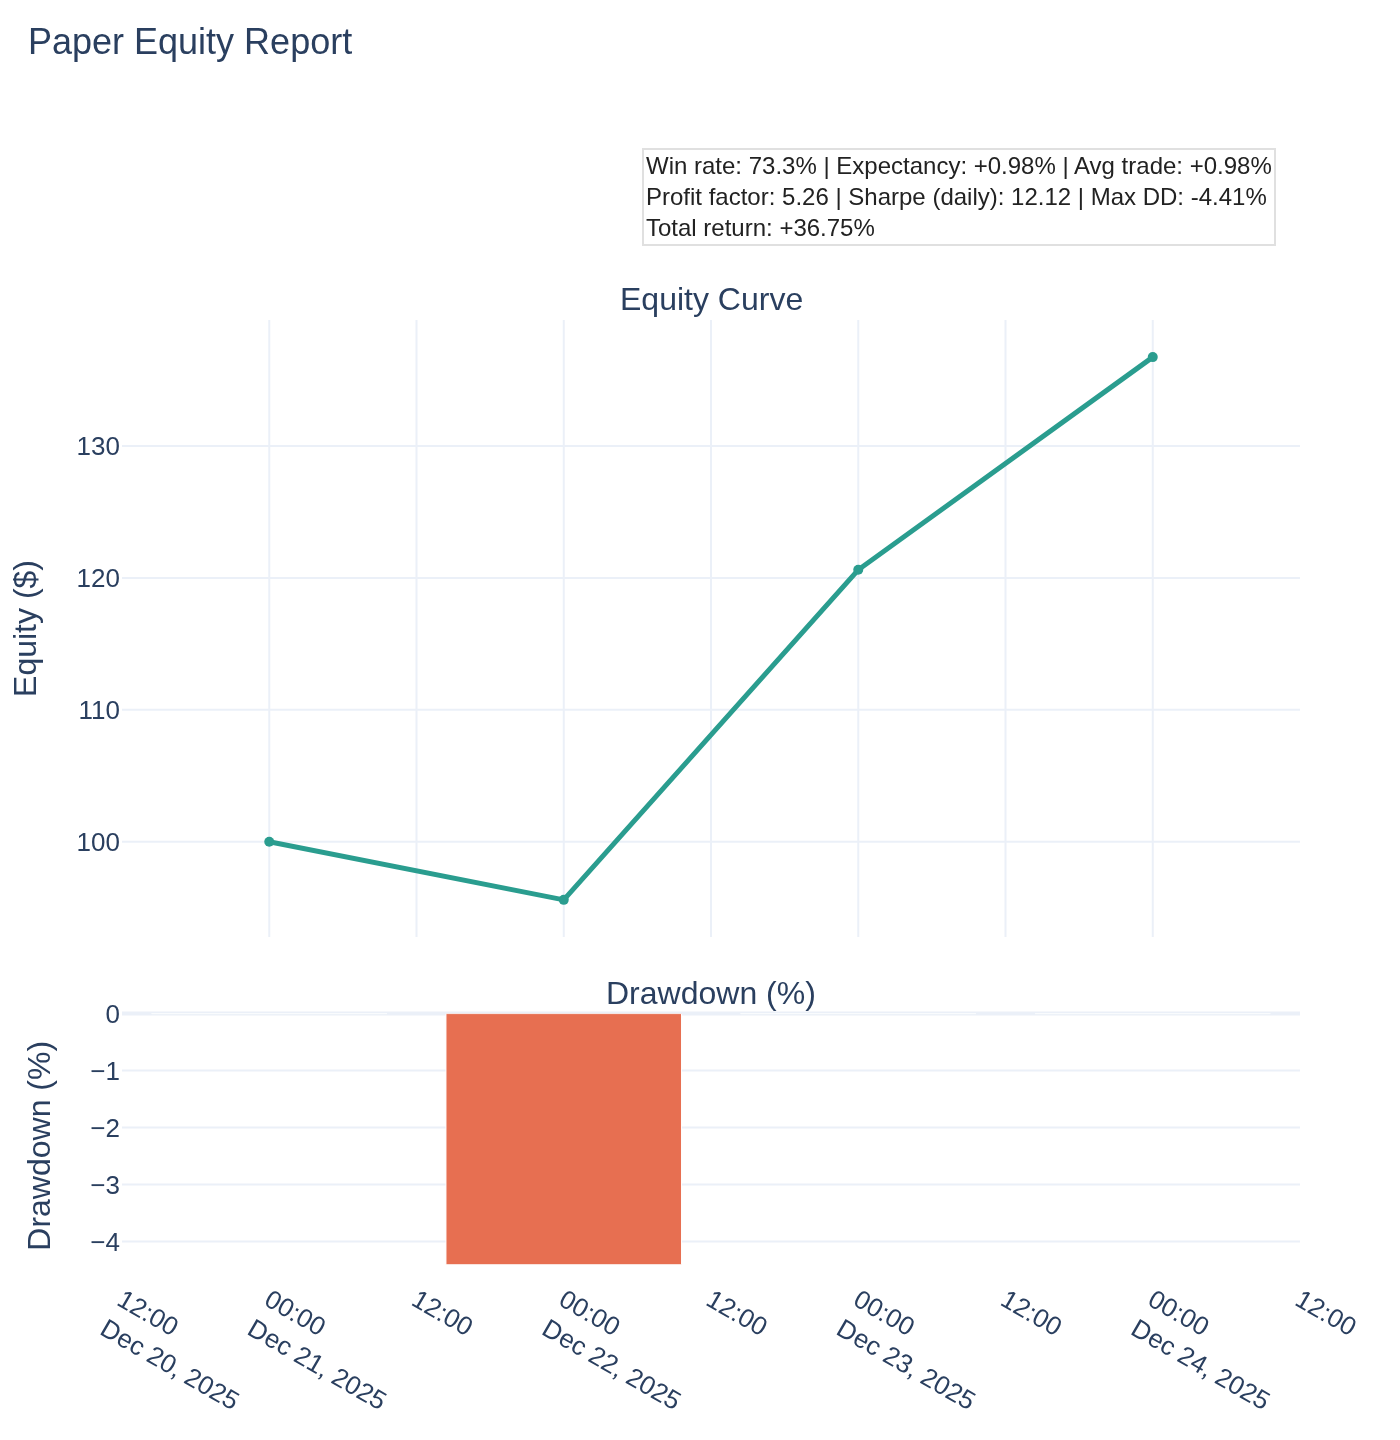
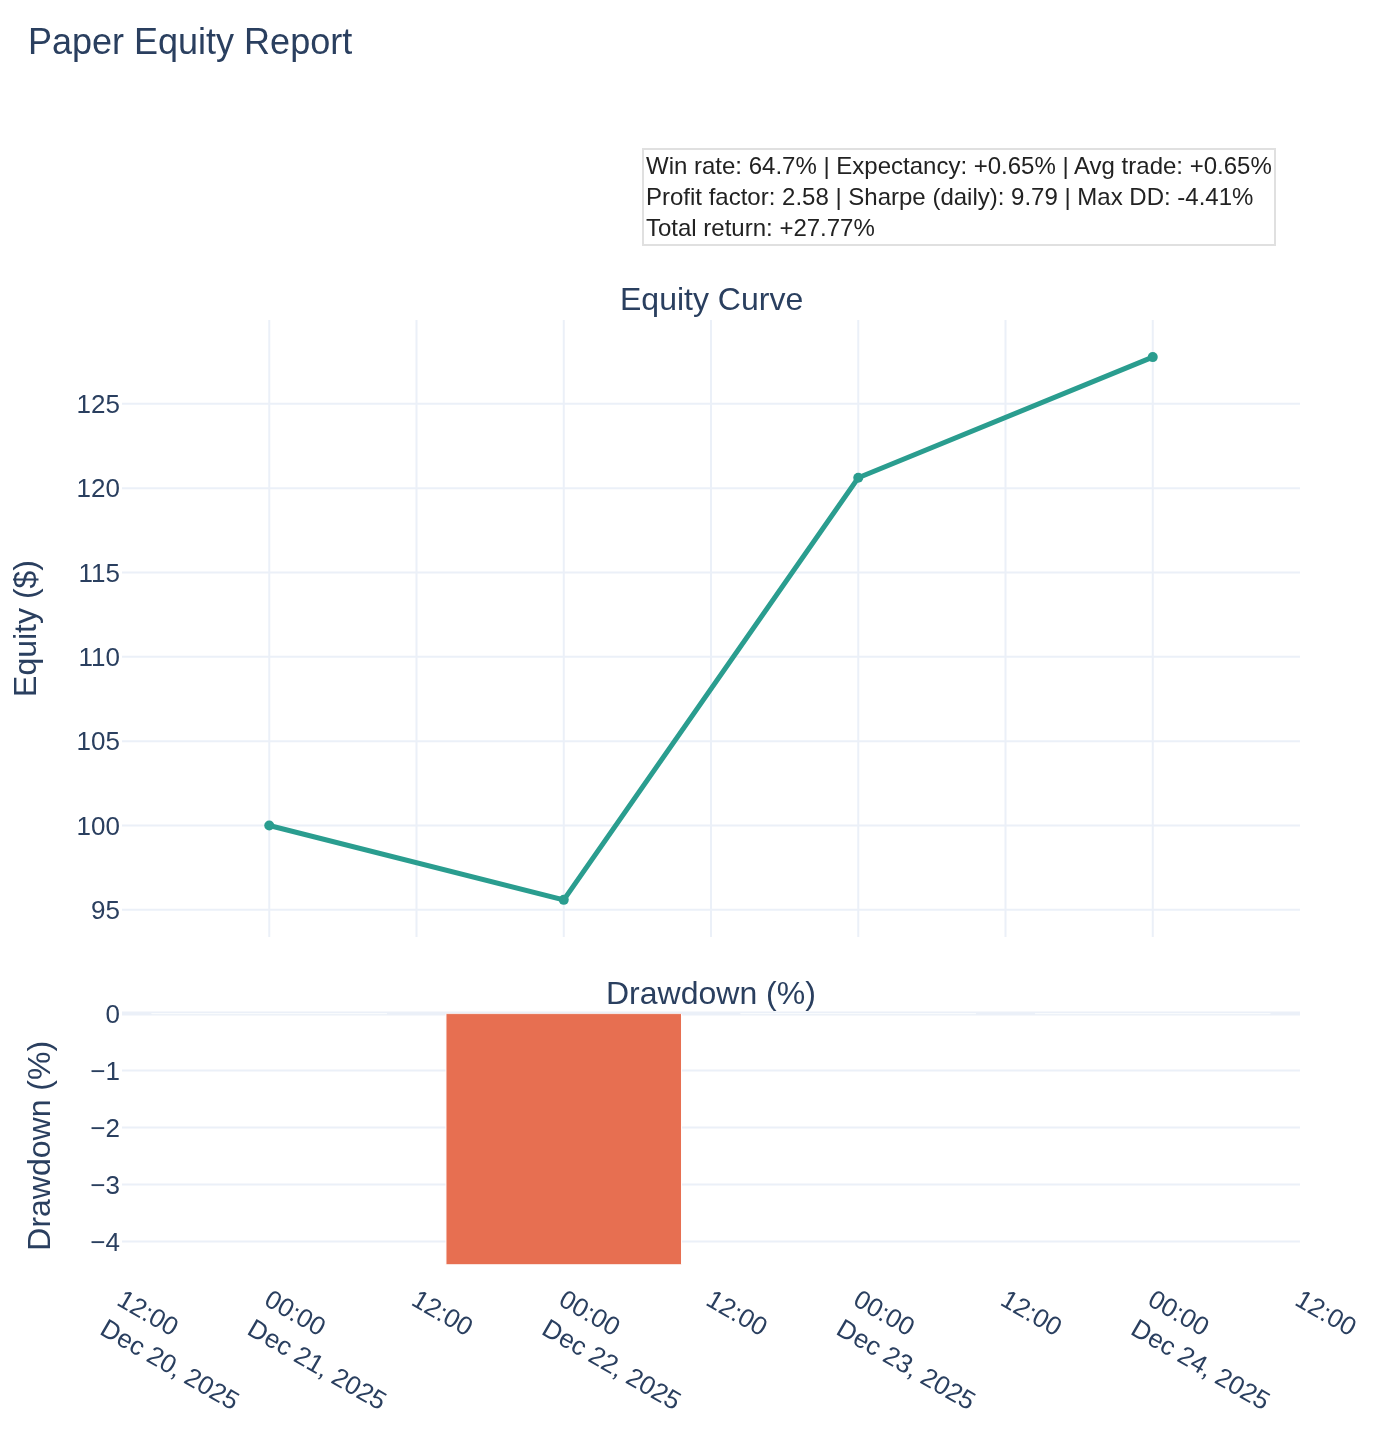
Update paper equity outputs and baseline csv

diff --git a/reports/paper_equity_report.html b/reports/paper_equity_report.html
@@ -2,6 +2,6 @@
 <head><meta charset="utf-8" /></head>
 <body>
     <div>                        <script type="text/javascript">window.PlotlyConfig = {MathJaxConfig: 'local'};</script>
-        <script charset="utf-8" src="https://cdn.plot.ly/plotly-3.3.0.min.js" integrity="sha256-bO3dS6yCpk9aK4gUpNELtCiDeSYvGYnK7jFI58NQnHI=" crossorigin="anonymous"></script>                <div id="f81df6c2-8111-4002-a10a-0886afe8ddb7" class="plotly-graph-div" style="height:720px; width:100%;"></div>            <script type="text/javascript">                window.PLOTLYENV=window.PLOTLYENV || {};                                if (document.getElementById("f81df6c2-8111-4002-a10a-0886afe8ddb7")) {                    Plotly.newPlot(                        "f81df6c2-8111-4002-a10a-0886afe8ddb7",                        [{"line":{"color":"#2a9d8f","width":2.5},"marker":{"color":"#2a9d8f","size":5},"mode":"lines+markers","name":"Equity","x":["2025-12-21","2025-12-22","2025-12-23","2025-12-24"],"y":{"dtype":"f8","bdata":"AAAAAAAAWUD2KFyPwuVXQEjhehSuJ15AAAAAAAAYYUA="},"type":"scatter","xaxis":"x","yaxis":"y"},{"marker":{"color":"#e76f51"},"name":"Drawdown","x":["2025-12-21","2025-12-22","2025-12-23","2025-12-24"],"y":{"dtype":"f8","bdata":"AAAAAAAAAACgcD0K16MRwAAAAAAAAAAAAAAAAAAAAAA="},"type":"bar","xaxis":"x2","yaxis":"y2"}],                        {"template":{"data":{"barpolar":[{"marker":{"line":{"color":"white","width":0.5},"pattern":{"fillmode":"overlay","size":10,"solidity":0.2}},"type":"barpolar"}],"bar":[{"error_x":{"color":"#2a3f5f"},"error_y":{"color":"#2a3f5f"},"marker":{"line":{"color":"white","width":0.5},"pattern":{"fillmode":"overlay","size":10,"solidity":0.2}},"type":"bar"}],"carpet":[{"aaxis":{"endlinecolor":"#2a3f5f","gridcolor":"#C8D4E3","linecolor":"#C8D4E3","minorgridcolor":"#C8D4E3","startlinecolor":"#2a3f5f"},"baxis":{"endlinecolor":"#2a3f5f","gridcolor":"#C8D4E3","linecolor":"#C8D4E3","minorgridcolor":"#C8D4E3","startlinecolor":"#2a3f5f"},"type":"carpet"}],"choropleth":[{"colorbar":{"outlinewidth":0,"ticks":""},"type":"choropleth"}],"contourcarpet":[{"colorbar":{"outlinewidth":0,"ticks":""},"type":"contourcarpet"}],"contour":[{"colorbar":{"outlinewidth":0,"ticks":""},"colorscale":[[0.0,"#0d0887"],[0.1111111111111111,"#46039f"],[0.2222222222222222,"#7201a8"],[0.3333333333333333,"#9c179e"],[0.4444444444444444,"#bd3786"],[0.5555555555555556,"#d8576b"],[0.6666666666666666,"#ed7953"],[0.7777777777777778,"#fb9f3a"],[0.8888888888888888,"#fdca26"],[1.0,"#f0f921"]],"type":"contour"}],"heatmap":[{"colorbar":{"outlinewidth":0,"ticks":""},"colorscale":[[0.0,"#0d0887"],[0.1111111111111111,"#46039f"],[0.2222222222222222,"#7201a8"],[0.3333333333333333,"#9c179e"],[0.4444444444444444,"#bd3786"],[0.5555555555555556,"#d8576b"],[0.6666666666666666,"#ed7953"],[0.7777777777777778,"#fb9f3a"],[0.8888888888888888,"#fdca26"],[1.0,"#f0f921"]],"type":"heatmap"}],"histogram2dcontour":[{"colorbar":{"outlinewidth":0,"ticks":""},"colorscale":[[0.0,"#0d0887"],[0.1111111111111111,"#46039f"],[0.2222222222222222,"#7201a8"],[0.3333333333333333,"#9c179e"],[0.4444444444444444,"#bd3786"],[0.5555555555555556,"#d8576b"],[0.6666666666666666,"#ed7953"],[0.7777777777777778,"#fb9f3a"],[0.8888888888888888,"#fdca26"],[1.0,"#f0f921"]],"type":"histogram2dcontour"}],"histogram2d":[{"colorbar":{"outlinewidth":0,"ticks":""},"colorscale":[[0.0,"#0d0887"],[0.1111111111111111,"#46039f"],[0.2222222222222222,"#7201a8"],[0.3333333333333333,"#9c179e"],[0.4444444444444444,"#bd3786"],[0.5555555555555556,"#d8576b"],[0.6666666666666666,"#ed7953"],[0.7777777777777778,"#fb9f3a"],[0.8888888888888888,"#fdca26"],[1.0,"#f0f921"]],"type":"histogram2d"}],"histogram":[{"marker":{"pattern":{"fillmode":"overlay","size":10,"solidity":0.2}},"type":"histogram"}],"mesh3d":[{"colorbar":{"outlinewidth":0,"ticks":""},"type":"mesh3d"}],"parcoords":[{"line":{"colorbar":{"outlinewidth":0,"ticks":""}},"type":"parcoords"}],"pie":[{"automargin":true,"type":"pie"}],"scatter3d":[{"line":{"colorbar":{"outlinewidth":0,"ticks":""}},"marker":{"colorbar":{"outlinewidth":0,"ticks":""}},"type":"scatter3d"}],"scattercarpet":[{"marker":{"colorbar":{"outlinewidth":0,"ticks":""}},"type":"scattercarpet"}],"scattergeo":[{"marker":{"colorbar":{"outlinewidth":0,"ticks":""}},"type":"scattergeo"}],"scattergl":[{"marker":{"colorbar":{"outlinewidth":0,"ticks":""}},"type":"scattergl"}],"scattermapbox":[{"marker":{"colorbar":{"outlinewidth":0,"ticks":""}},"type":"scattermapbox"}],"scattermap":[{"marker":{"colorbar":{"outlinewidth":0,"ticks":""}},"type":"scattermap"}],"scatterpolargl":[{"marker":{"colorbar":{"outlinewidth":0,"ticks":""}},"type":"scatterpolargl"}],"scatterpolar":[{"marker":{"colorbar":{"outlinewidth":0,"ticks":""}},"type":"scatterpolar"}],"scatter":[{"fillpattern":{"fillmode":"overlay","size":10,"solidity":0.2},"type":"scatter"}],"scatterternary":[{"marker":{"colorbar":{"outlinewidth":0,"ticks":""}},"type":"scatterternary"}],"surface":[{"colorbar":{"outlinewidth":0,"ticks":""},"colorscale":[[0.0,"#0d0887"],[0.1111111111111111,"#46039f"],[0.2222222222222222,"#7201a8"],[0.3333333333333333,"#9c179e"],[0.4444444444444444,"#bd3786"],[0.5555555555555556,"#d8576b"],[0.6666666666666666,"#ed7953"],[0.7777777777777778,"#fb9f3a"],[0.8888888888888888,"#fdca26"],[1.0,"#f0f921"]],"type":"surface"}],"table":[{"cells":{"fill":{"color":"#EBF0F8"},"line":{"color":"white"}},"header":{"fill":{"color":"#C8D4E3"},"line":{"color":"white"}},"type":"table"}]},"layout":{"annotationdefaults":{"arrowcolor":"#2a3f5f","arrowhead":0,"arrowwidth":1},"autotypenumbers":"strict","coloraxis":{"colorbar":{"outlinewidth":0,"ticks":""}},"colorscale":{"diverging":[[0,"#8e0152"],[0.1,"#c51b7d"],[0.2,"#de77ae"],[0.3,"#f1b6da"],[0.4,"#fde0ef"],[0.5,"#f7f7f7"],[0.6,"#e6f5d0"],[0.7,"#b8e186"],[0.8,"#7fbc41"],[0.9,"#4d9221"],[1,"#276419"]],"sequential":[[0.0,"#0d0887"],[0.1111111111111111,"#46039f"],[0.2222222222222222,"#7201a8"],[0.3333333333333333,"#9c179e"],[0.4444444444444444,"#bd3786"],[0.5555555555555556,"#d8576b"],[0.6666666666666666,"#ed7953"],[0.7777777777777778,"#fb9f3a"],[0.8888888888888888,"#fdca26"],[1.0,"#f0f921"]],"sequentialminus":[[0.0,"#0d0887"],[0.1111111111111111,"#46039f"],[0.2222222222222222,"#7201a8"],[0.3333333333333333,"#9c179e"],[0.4444444444444444,"#bd3786"],[0.5555555555555556,"#d8576b"],[0.6666666666666666,"#ed7953"],[0.7777777777777778,"#fb9f3a"],[0.8888888888888888,"#fdca26"],[1.0,"#f0f921"]]},"colorway":["#636efa","#EF553B","#00cc96","#ab63fa","#FFA15A","#19d3f3","#FF6692","#B6E880","#FF97FF","#FECB52"],"font":{"color":"#2a3f5f"},"geo":{"bgcolor":"white","lakecolor":"white","landcolor":"white","showlakes":true,"showland":true,"subunitcolor":"#C8D4E3"},"hoverlabel":{"align":"left"},"hovermode":"closest","mapbox":{"style":"light"},"paper_bgcolor":"white","plot_bgcolor":"white","polar":{"angularaxis":{"gridcolor":"#EBF0F8","linecolor":"#EBF0F8","ticks":""},"bgcolor":"white","radialaxis":{"gridcolor":"#EBF0F8","linecolor":"#EBF0F8","ticks":""}},"scene":{"xaxis":{"backgroundcolor":"white","gridcolor":"#DFE8F3","gridwidth":2,"linecolor":"#EBF0F8","showbackground":true,"ticks":"","zerolinecolor":"#EBF0F8"},"yaxis":{"backgroundcolor":"white","gridcolor":"#DFE8F3","gridwidth":2,"linecolor":"#EBF0F8","showbackground":true,"ticks":"","zerolinecolor":"#EBF0F8"},"zaxis":{"backgroundcolor":"white","gridcolor":"#DFE8F3","gridwidth":2,"linecolor":"#EBF0F8","showbackground":true,"ticks":"","zerolinecolor":"#EBF0F8"}},"shapedefaults":{"line":{"color":"#2a3f5f"}},"ternary":{"aaxis":{"gridcolor":"#DFE8F3","linecolor":"#A2B1C6","ticks":""},"baxis":{"gridcolor":"#DFE8F3","linecolor":"#A2B1C6","ticks":""},"bgcolor":"white","caxis":{"gridcolor":"#DFE8F3","linecolor":"#A2B1C6","ticks":""}},"title":{"x":0.05},"xaxis":{"automargin":true,"gridcolor":"#EBF0F8","linecolor":"#EBF0F8","ticks":"","title":{"standoff":15},"zerolinecolor":"#EBF0F8","zerolinewidth":2},"yaxis":{"automargin":true,"gridcolor":"#EBF0F8","linecolor":"#EBF0F8","ticks":"","title":{"standoff":15},"zerolinecolor":"#EBF0F8","zerolinewidth":2}}},"xaxis":{"anchor":"y","domain":[0.0,1.0],"matches":"x2","showticklabels":false},"yaxis":{"anchor":"x","domain":[0.35600000000000004,1.0],"title":{"text":"Equity ($)"}},"xaxis2":{"anchor":"y2","domain":[0.0,1.0]},"yaxis2":{"anchor":"x2","domain":[0.0,0.276],"title":{"text":"Drawdown (%)"}},"annotations":[{"font":{"size":16},"showarrow":false,"text":"Equity Curve","x":0.5,"xanchor":"center","xref":"paper","y":1.0,"yanchor":"bottom","yref":"paper"},{"font":{"size":16},"showarrow":false,"text":"Drawdown (%)","x":0.5,"xanchor":"center","xref":"paper","y":0.276,"yanchor":"bottom","yref":"paper"},{"align":"left","bgcolor":"rgba(255,255,255,0.9)","bordercolor":"#e0e0e0","borderwidth":1,"font":{"color":"#222","size":12},"showarrow":false,"text":"Win rate: 73.3% | Expectancy: +0.98% | Avg trade: +0.98%\u003cbr\u003eProfit factor: 5.26 | Sharpe (daily): 12.12 | Max DD: -4.41%\u003cbr\u003eTotal return: +36.75%","x":0.98,"xanchor":"right","xref":"paper","y":1.18,"yanchor":"top","yref":"paper"}],"title":{"text":"Paper Equity Report","x":0.02,"xanchor":"left","y":0.98,"yanchor":"top"},"margin":{"l":50,"r":50,"t":160,"b":60},"font":{"size":13},"height":720,"showlegend":false},                        {"responsive": true}                    )                };            </script>        </div>
+        <script charset="utf-8" src="https://cdn.plot.ly/plotly-3.3.0.min.js" integrity="sha256-bO3dS6yCpk9aK4gUpNELtCiDeSYvGYnK7jFI58NQnHI=" crossorigin="anonymous"></script>                <div id="d1387e41-820e-4580-a99b-588e577e87e7" class="plotly-graph-div" style="height:720px; width:100%;"></div>            <script type="text/javascript">                window.PLOTLYENV=window.PLOTLYENV || {};                                if (document.getElementById("d1387e41-820e-4580-a99b-588e577e87e7")) {                    Plotly.newPlot(                        "d1387e41-820e-4580-a99b-588e577e87e7",                        [{"line":{"color":"#2a9d8f","width":2.5},"marker":{"color":"#2a9d8f","size":5},"mode":"lines+markers","name":"Equity","x":["2025-12-21","2025-12-22","2025-12-23","2025-12-24"],"y":{"dtype":"f8","bdata":"AAAAAAAAWUD2KFyPwuVXQEjhehSuJ15A4noUrkfxX0A="},"type":"scatter","xaxis":"x","yaxis":"y"},{"marker":{"color":"#e76f51"},"name":"Drawdown","x":["2025-12-21","2025-12-22","2025-12-23","2025-12-24"],"y":{"dtype":"f8","bdata":"AAAAAAAAAACgcD0K16MRwAAAAAAAAAAAAAAAAAAAAAA="},"type":"bar","xaxis":"x2","yaxis":"y2"}],                        {"template":{"data":{"barpolar":[{"marker":{"line":{"color":"white","width":0.5},"pattern":{"fillmode":"overlay","size":10,"solidity":0.2}},"type":"barpolar"}],"bar":[{"error_x":{"color":"#2a3f5f"},"error_y":{"color":"#2a3f5f"},"marker":{"line":{"color":"white","width":0.5},"pattern":{"fillmode":"overlay","size":10,"solidity":0.2}},"type":"bar"}],"carpet":[{"aaxis":{"endlinecolor":"#2a3f5f","gridcolor":"#C8D4E3","linecolor":"#C8D4E3","minorgridcolor":"#C8D4E3","startlinecolor":"#2a3f5f"},"baxis":{"endlinecolor":"#2a3f5f","gridcolor":"#C8D4E3","linecolor":"#C8D4E3","minorgridcolor":"#C8D4E3","startlinecolor":"#2a3f5f"},"type":"carpet"}],"choropleth":[{"colorbar":{"outlinewidth":0,"ticks":""},"type":"choropleth"}],"contourcarpet":[{"colorbar":{"outlinewidth":0,"ticks":""},"type":"contourcarpet"}],"contour":[{"colorbar":{"outlinewidth":0,"ticks":""},"colorscale":[[0.0,"#0d0887"],[0.1111111111111111,"#46039f"],[0.2222222222222222,"#7201a8"],[0.3333333333333333,"#9c179e"],[0.4444444444444444,"#bd3786"],[0.5555555555555556,"#d8576b"],[0.6666666666666666,"#ed7953"],[0.7777777777777778,"#fb9f3a"],[0.8888888888888888,"#fdca26"],[1.0,"#f0f921"]],"type":"contour"}],"heatmap":[{"colorbar":{"outlinewidth":0,"ticks":""},"colorscale":[[0.0,"#0d0887"],[0.1111111111111111,"#46039f"],[0.2222222222222222,"#7201a8"],[0.3333333333333333,"#9c179e"],[0.4444444444444444,"#bd3786"],[0.5555555555555556,"#d8576b"],[0.6666666666666666,"#ed7953"],[0.7777777777777778,"#fb9f3a"],[0.8888888888888888,"#fdca26"],[1.0,"#f0f921"]],"type":"heatmap"}],"histogram2dcontour":[{"colorbar":{"outlinewidth":0,"ticks":""},"colorscale":[[0.0,"#0d0887"],[0.1111111111111111,"#46039f"],[0.2222222222222222,"#7201a8"],[0.3333333333333333,"#9c179e"],[0.4444444444444444,"#bd3786"],[0.5555555555555556,"#d8576b"],[0.6666666666666666,"#ed7953"],[0.7777777777777778,"#fb9f3a"],[0.8888888888888888,"#fdca26"],[1.0,"#f0f921"]],"type":"histogram2dcontour"}],"histogram2d":[{"colorbar":{"outlinewidth":0,"ticks":""},"colorscale":[[0.0,"#0d0887"],[0.1111111111111111,"#46039f"],[0.2222222222222222,"#7201a8"],[0.3333333333333333,"#9c179e"],[0.4444444444444444,"#bd3786"],[0.5555555555555556,"#d8576b"],[0.6666666666666666,"#ed7953"],[0.7777777777777778,"#fb9f3a"],[0.8888888888888888,"#fdca26"],[1.0,"#f0f921"]],"type":"histogram2d"}],"histogram":[{"marker":{"pattern":{"fillmode":"overlay","size":10,"solidity":0.2}},"type":"histogram"}],"mesh3d":[{"colorbar":{"outlinewidth":0,"ticks":""},"type":"mesh3d"}],"parcoords":[{"line":{"colorbar":{"outlinewidth":0,"ticks":""}},"type":"parcoords"}],"pie":[{"automargin":true,"type":"pie"}],"scatter3d":[{"line":{"colorbar":{"outlinewidth":0,"ticks":""}},"marker":{"colorbar":{"outlinewidth":0,"ticks":""}},"type":"scatter3d"}],"scattercarpet":[{"marker":{"colorbar":{"outlinewidth":0,"ticks":""}},"type":"scattercarpet"}],"scattergeo":[{"marker":{"colorbar":{"outlinewidth":0,"ticks":""}},"type":"scattergeo"}],"scattergl":[{"marker":{"colorbar":{"outlinewidth":0,"ticks":""}},"type":"scattergl"}],"scattermapbox":[{"marker":{"colorbar":{"outlinewidth":0,"ticks":""}},"type":"scattermapbox"}],"scattermap":[{"marker":{"colorbar":{"outlinewidth":0,"ticks":""}},"type":"scattermap"}],"scatterpolargl":[{"marker":{"colorbar":{"outlinewidth":0,"ticks":""}},"type":"scatterpolargl"}],"scatterpolar":[{"marker":{"colorbar":{"outlinewidth":0,"ticks":""}},"type":"scatterpolar"}],"scatter":[{"fillpattern":{"fillmode":"overlay","size":10,"solidity":0.2},"type":"scatter"}],"scatterternary":[{"marker":{"colorbar":{"outlinewidth":0,"ticks":""}},"type":"scatterternary"}],"surface":[{"colorbar":{"outlinewidth":0,"ticks":""},"colorscale":[[0.0,"#0d0887"],[0.1111111111111111,"#46039f"],[0.2222222222222222,"#7201a8"],[0.3333333333333333,"#9c179e"],[0.4444444444444444,"#bd3786"],[0.5555555555555556,"#d8576b"],[0.6666666666666666,"#ed7953"],[0.7777777777777778,"#fb9f3a"],[0.8888888888888888,"#fdca26"],[1.0,"#f0f921"]],"type":"surface"}],"table":[{"cells":{"fill":{"color":"#EBF0F8"},"line":{"color":"white"}},"header":{"fill":{"color":"#C8D4E3"},"line":{"color":"white"}},"type":"table"}]},"layout":{"annotationdefaults":{"arrowcolor":"#2a3f5f","arrowhead":0,"arrowwidth":1},"autotypenumbers":"strict","coloraxis":{"colorbar":{"outlinewidth":0,"ticks":""}},"colorscale":{"diverging":[[0,"#8e0152"],[0.1,"#c51b7d"],[0.2,"#de77ae"],[0.3,"#f1b6da"],[0.4,"#fde0ef"],[0.5,"#f7f7f7"],[0.6,"#e6f5d0"],[0.7,"#b8e186"],[0.8,"#7fbc41"],[0.9,"#4d9221"],[1,"#276419"]],"sequential":[[0.0,"#0d0887"],[0.1111111111111111,"#46039f"],[0.2222222222222222,"#7201a8"],[0.3333333333333333,"#9c179e"],[0.4444444444444444,"#bd3786"],[0.5555555555555556,"#d8576b"],[0.6666666666666666,"#ed7953"],[0.7777777777777778,"#fb9f3a"],[0.8888888888888888,"#fdca26"],[1.0,"#f0f921"]],"sequentialminus":[[0.0,"#0d0887"],[0.1111111111111111,"#46039f"],[0.2222222222222222,"#7201a8"],[0.3333333333333333,"#9c179e"],[0.4444444444444444,"#bd3786"],[0.5555555555555556,"#d8576b"],[0.6666666666666666,"#ed7953"],[0.7777777777777778,"#fb9f3a"],[0.8888888888888888,"#fdca26"],[1.0,"#f0f921"]]},"colorway":["#636efa","#EF553B","#00cc96","#ab63fa","#FFA15A","#19d3f3","#FF6692","#B6E880","#FF97FF","#FECB52"],"font":{"color":"#2a3f5f"},"geo":{"bgcolor":"white","lakecolor":"white","landcolor":"white","showlakes":true,"showland":true,"subunitcolor":"#C8D4E3"},"hoverlabel":{"align":"left"},"hovermode":"closest","mapbox":{"style":"light"},"paper_bgcolor":"white","plot_bgcolor":"white","polar":{"angularaxis":{"gridcolor":"#EBF0F8","linecolor":"#EBF0F8","ticks":""},"bgcolor":"white","radialaxis":{"gridcolor":"#EBF0F8","linecolor":"#EBF0F8","ticks":""}},"scene":{"xaxis":{"backgroundcolor":"white","gridcolor":"#DFE8F3","gridwidth":2,"linecolor":"#EBF0F8","showbackground":true,"ticks":"","zerolinecolor":"#EBF0F8"},"yaxis":{"backgroundcolor":"white","gridcolor":"#DFE8F3","gridwidth":2,"linecolor":"#EBF0F8","showbackground":true,"ticks":"","zerolinecolor":"#EBF0F8"},"zaxis":{"backgroundcolor":"white","gridcolor":"#DFE8F3","gridwidth":2,"linecolor":"#EBF0F8","showbackground":true,"ticks":"","zerolinecolor":"#EBF0F8"}},"shapedefaults":{"line":{"color":"#2a3f5f"}},"ternary":{"aaxis":{"gridcolor":"#DFE8F3","linecolor":"#A2B1C6","ticks":""},"baxis":{"gridcolor":"#DFE8F3","linecolor":"#A2B1C6","ticks":""},"bgcolor":"white","caxis":{"gridcolor":"#DFE8F3","linecolor":"#A2B1C6","ticks":""}},"title":{"x":0.05},"xaxis":{"automargin":true,"gridcolor":"#EBF0F8","linecolor":"#EBF0F8","ticks":"","title":{"standoff":15},"zerolinecolor":"#EBF0F8","zerolinewidth":2},"yaxis":{"automargin":true,"gridcolor":"#EBF0F8","linecolor":"#EBF0F8","ticks":"","title":{"standoff":15},"zerolinecolor":"#EBF0F8","zerolinewidth":2}}},"xaxis":{"anchor":"y","domain":[0.0,1.0],"matches":"x2","showticklabels":false},"yaxis":{"anchor":"x","domain":[0.35600000000000004,1.0],"title":{"text":"Equity ($)"}},"xaxis2":{"anchor":"y2","domain":[0.0,1.0]},"yaxis2":{"anchor":"x2","domain":[0.0,0.276],"title":{"text":"Drawdown (%)"}},"annotations":[{"font":{"size":16},"showarrow":false,"text":"Equity Curve","x":0.5,"xanchor":"center","xref":"paper","y":1.0,"yanchor":"bottom","yref":"paper"},{"font":{"size":16},"showarrow":false,"text":"Drawdown (%)","x":0.5,"xanchor":"center","xref":"paper","y":0.276,"yanchor":"bottom","yref":"paper"},{"align":"left","bgcolor":"rgba(255,255,255,0.9)","bordercolor":"#e0e0e0","borderwidth":1,"font":{"color":"#222","size":12},"showarrow":false,"text":"Win rate: 64.7% | Expectancy: +0.65% | Avg trade: +0.65%\u003cbr\u003eProfit factor: 2.58 | Sharpe (daily): 9.79 | Max DD: -4.41%\u003cbr\u003eTotal return: +27.77%","x":0.98,"xanchor":"right","xref":"paper","y":1.18,"yanchor":"top","yref":"paper"}],"title":{"text":"Paper Equity Report","x":0.02,"xanchor":"left","y":0.98,"yanchor":"top"},"margin":{"l":50,"r":50,"t":160,"b":60},"font":{"size":13},"height":720,"showlegend":false},                        {"responsive": true}                    )                };            </script>        </div>
 </body>
 </html>
